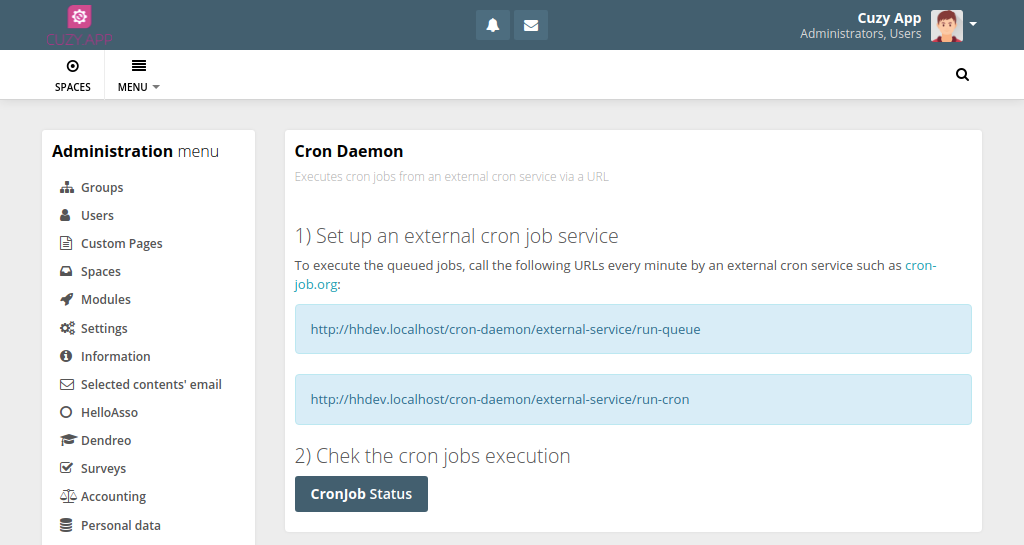
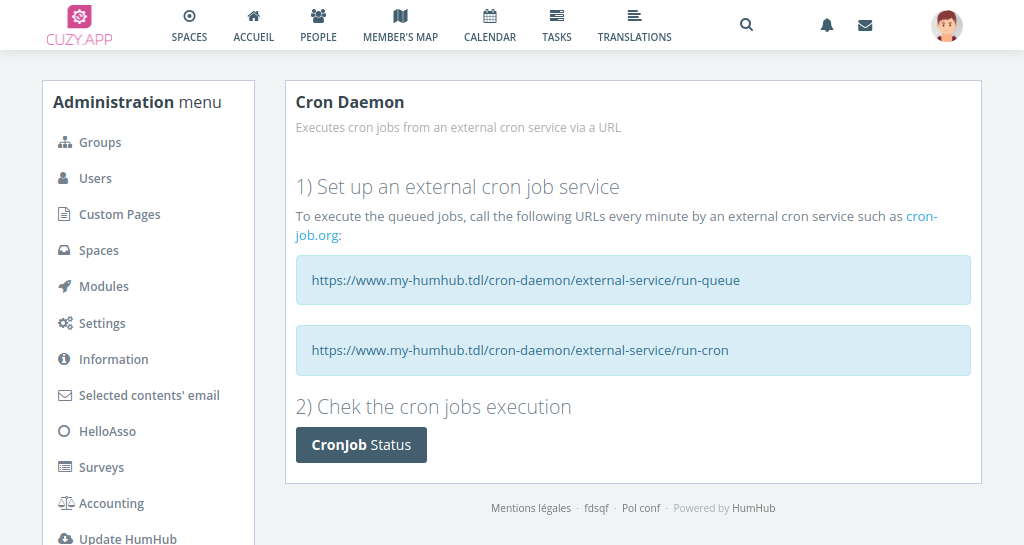
update

diff --git a/docs/CHANGELOG.md b/docs/CHANGELOG.md
@@ -1,9 +1,13 @@
 Changelog
 =========
 
+1.0.3 (March 7, 2022)
+--------------------
+- Enh: Added screenshots of an external cron service
+
 1.0.2 (February 22, 2022)
 --------------------
-- Fix: missing STDOUT and STDERR constants for non-cli php versions (thanks @quoing)
+- Fix: Missing STDOUT and STDERR constants for non-cli php versions (thanks @quoing)
 
 1.0.1 (December 14, 2021)
 --------------------
